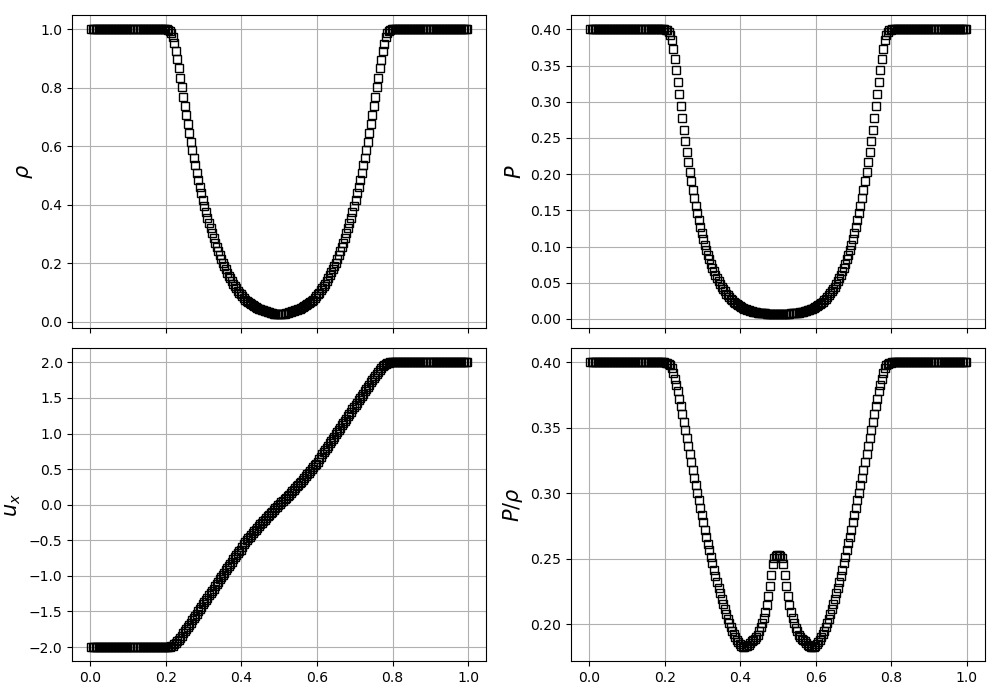
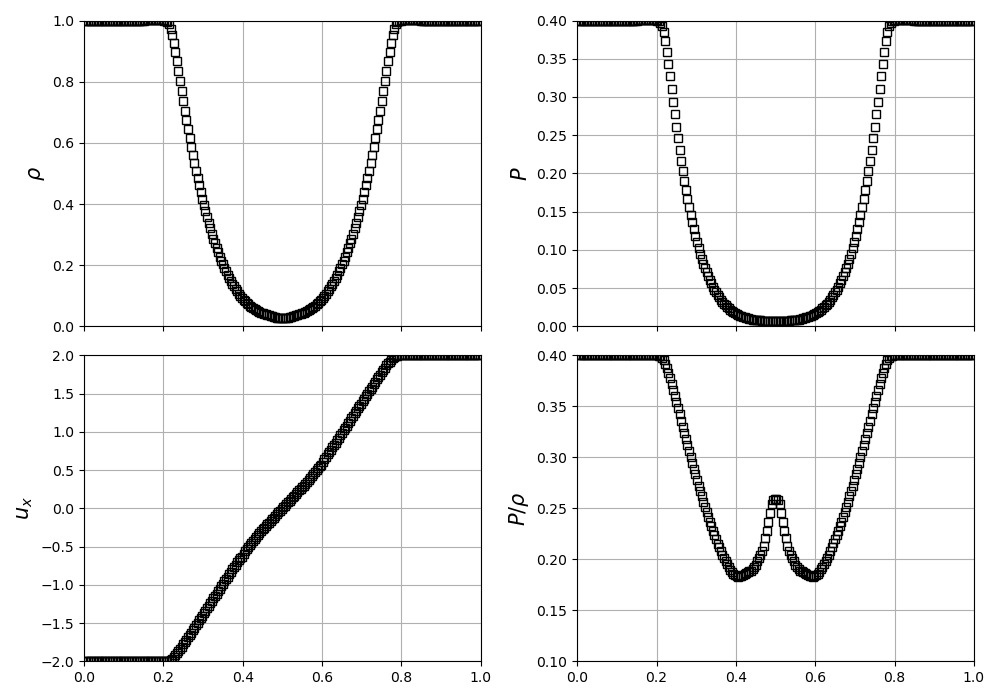
added details in test description

diff --git a/docs/einfeld.md b/docs/einfeld.md
@@ -31,18 +31,21 @@ As described in [Stone et al.](https://iopscience.iop.org/article/10.1086/588755
 | Left side  	| 1.0      	| -2.0    	| 0       	| 0       	| 0.4   	| ...     	| ...     	|
 | Right side 	| 1.0      	| 2.0     	| 0       	| 0       	| 0.4   	| ...     	| ...     	|
 
-Plotting the resulting density ($\rho$), pressure ($P$), horizontal velocity ($\u_x$) and the specific internal energy scaled by ($\gamma - 1$) ($P/\rho$) in the x- y- and z-direction yields figure 1: 
+In other words, the Einfeldt-1203 test consists of separating the domain with an imaginary membrane, and having the horizontal velocity be negative on one side and positive on the other side. We will then observe how the other parameters change when the imaginary membrane is yanked away, creating a shockwave that propagates through the domain.
+
+Plotting the final density ($\rho$), pressure ($P$), horizontal velocity ($u_x$) and $P/\rho$ (the specific internal energy scaled by ($\gamma - 1$)) in the x-direction yields figure 1: 
 
 ![image](images/einfeldt/einfeldt_standard.png)
 
 Comparing our plot with figure 11 in [Stone et al.](https://iopscience.iop.org/article/10.1086/588755/pdf), we can immediately see that the x-axis has different values. This should have no effect on the shape of the plots, and we therefore choose not to bother with changing the x-axis to replicate the figure. We also see that the shape of the specific internal energy ($P/\rho$) is different from the reference figure, and that it does not extend down quite as far as it should. 
 The reason for this might be that we are plotting the wrong variable, or that it is somehow scaled differently in the paper. 
 (We plot the specific internal energy as: `p/rho`, where ``p = rho * (gamma - 1) * ee`. )
-However, the pressure and density plots seem to fit the reference figure very nicely, and therefore we assume the results are valid. 
+However, the pressure and density plots seem to fit the reference figure very nicely, and therefore we assume the results are valid, and we choose to only look at the density, pressure and velocity plots when fine-tuning the Bifrost parameters. 
 
 We can examine the time evolution of the einfeldt problem by plotting a specific snapshot. The biggest changes happen in the earliest snapshots, since the system begins in an extreme initial state, which it will very quickly try to even out. 
 The following gif shows how the system changes from snapshots 0 (the initial state) to snapshot 20 (the end time $t=0.1$ s.
 
 ![gif](images/einfeldt/einfeldt_early_times.gif)
 
-Further on, we can modify each of the Bifrost parameters $\nu_1$, $\nu_2$, $\nu_3$, $\nu_d$, $\nu_{ee}$ and $\eta_3$ in order to fine-tune the solver to better match the results in [Stone et al.](https:    //iopscience.iop.org/article/10.1086/588755/pdf). 
+Further on, we can modify each of the Bifrost parameters $\nu_1$, $\nu_2$, $\nu_3$, $\nu_d$, $\nu_{ee}$ and $\eta_3$ in order to fine-tune the solver to better match the results in [Stone et al.](https://iopscience.iop.org/article/10.1086/588755/pdf) 
+I found that changing the Bifrost parameters one by one did little in terms of the density and pressure plots. 
